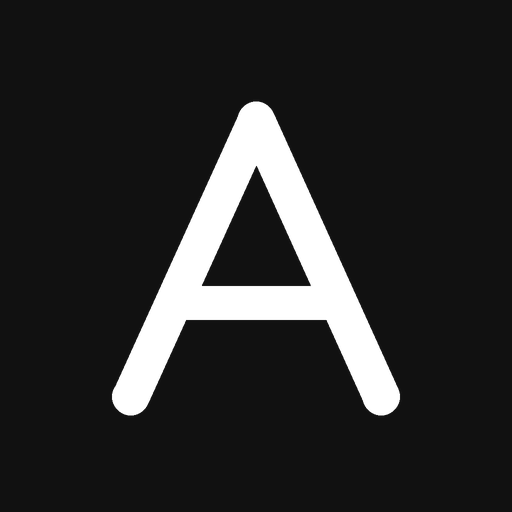
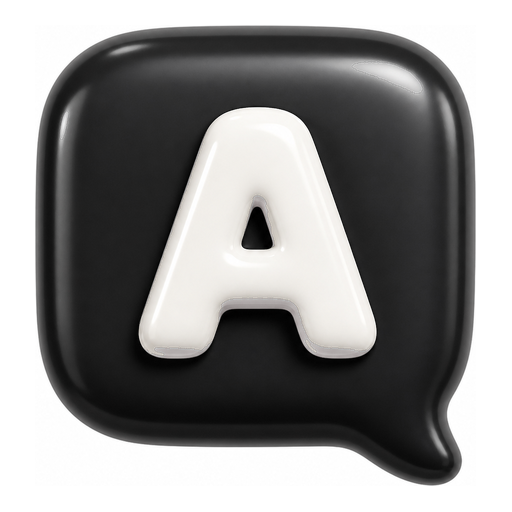
앱 카드 아이콘: Ajak 3D 말풍선 투명 아이콘 + 노박스, OG 커버 알파 그림자(SW v8)

diff --git a/apps.js b/apps.js
@@ -16,7 +16,7 @@ window.AJAK_STUDIO_APPS = [
     url: 'https://ajak-75.github.io/diary/',
     icon: './apps/ajak.png',
     icon2x: './apps/ajak-512.png',
-    iconBg: '#111111',
+    iconBg: 'transparent',
     desc: {
       ko: '코미·모모 캐릭터 없이 남녀노소 누구나 가볍게 일상과 생각을 나누는 한국판 스레드형 미니 SNS. 접속한 기기의 언어를 자동으로 감지해 각자의 언어로 열립니다.',
       en: 'A light, Threads-style mini social network for everyday thoughts — no mascots, just people. It detects each visitor’s device language and opens in their own.',

diff --git a/sw.js b/sw.js
@@ -1,7 +1,7 @@
 /* Ajak Studio — sw.js
    셸(HTML·CSS·JS·아이콘)을 캐시해 두고, 문서는 네트워크 우선(실패 시 캐시)으로 연다.
    번역 API 같은 외부 요청은 건드리지 않는다. */
-const VER = 'ajak-studio-v7';
+const VER = 'ajak-studio-v8';
 const SHELL = [
   './',
   './index.html',

diff --git a/index.html b/index.html
@@ -110,7 +110,7 @@
 </script>
 
 <script src="./i18n.js?v=2"></script>
-<script src="./apps.js?v=4"></script>
+<script src="./apps.js?v=5"></script>
 <script src="./app.js?v=4"></script>
 </body>
 </html>

diff --git a/tools/make-icons.py b/tools/make-icons.py
@@ -137,7 +137,7 @@ try:
     if not os.path.exists(komi_logo):
         komi_logo = os.path.join(ROOT, "..", "KOMI-Diary", "icons", "icon-192.png")
     app_k = Image.open(komi_logo).convert("RGBA")
-    a = shadowed(app_a, (116, 116))
+    a = shadowed_alpha(app_a, (116, 116))
     k = shadowed_alpha(app_k, (116, 116))
     og.paste(a, (772, 236), a)
     og.paste(k, (952, 236), k)
